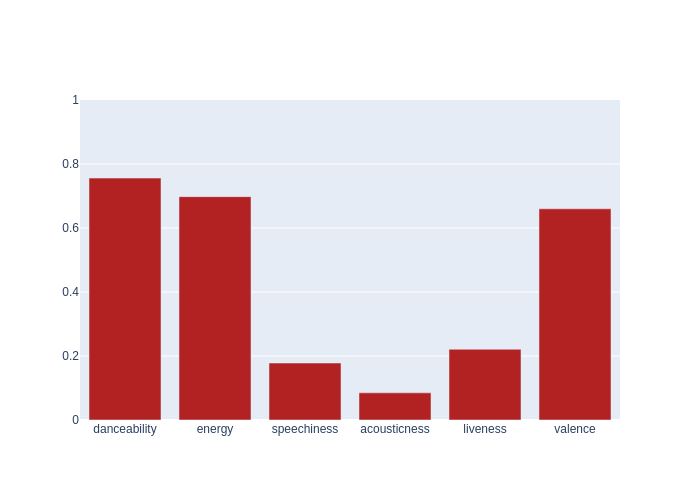
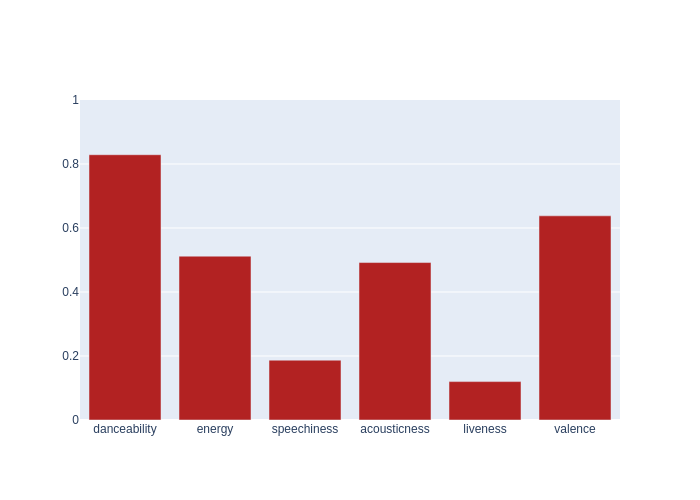
Automated README update

diff --git a/README.md b/README.md
@@ -4,7 +4,7 @@ Automated music metrics for fun, updated hourly.
 
 ## Spotify
 
-- currently listening to **Trippie Redd - Rich MF (feat. Polo G & Lil Durk)**
+- currently listening to **Sleepy Hallow - 2055**
 
 - **906** liked songs
 - **149** playlists
